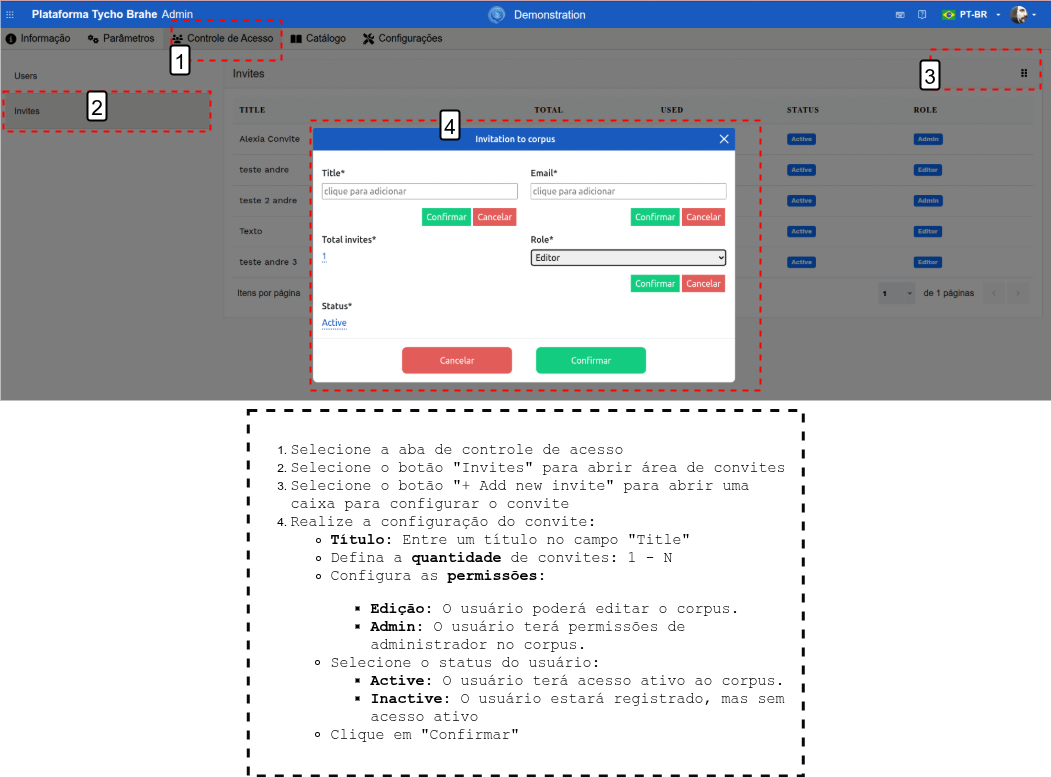
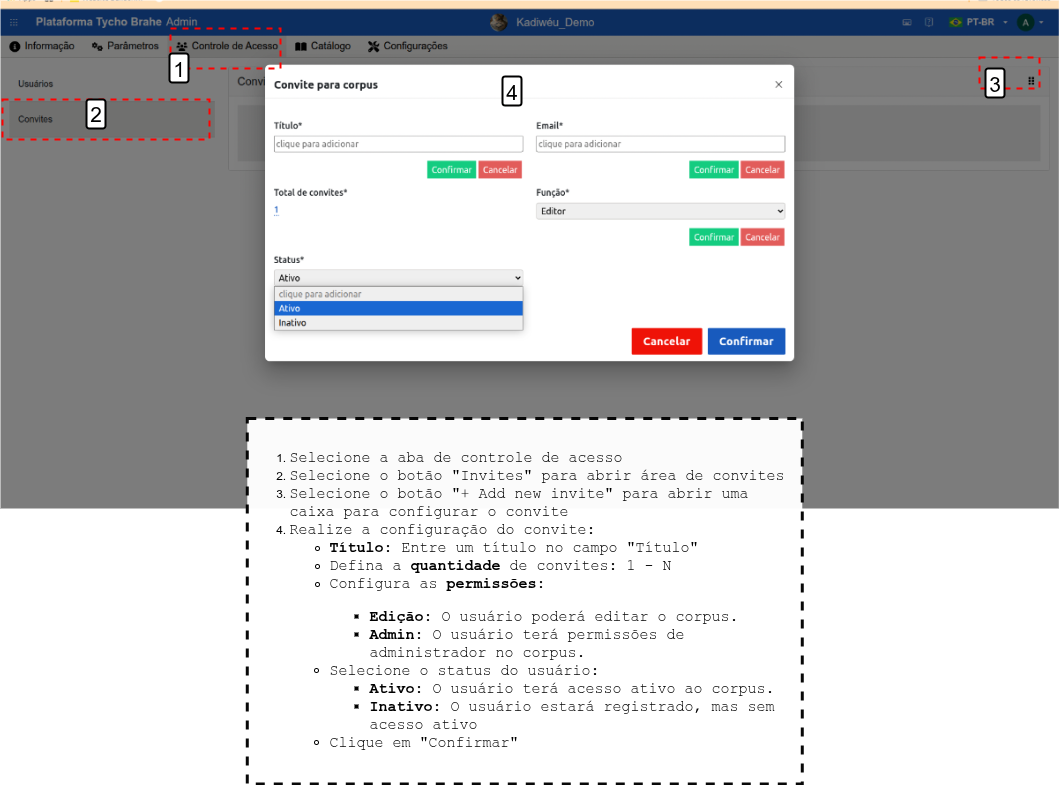
Revisão Admin: Registro novos usuários

diff --git a/admin/pt-br/register-new-users.md b/admin/pt-br/register-new-users.md
@@ -31,8 +31,9 @@ Uma vez na área de Centro Adminstrativo, o admin do corpus consegue seguir com 
 
 ## Selecionando um Corpus
 
-1. Na interface de Administrador, selecione o corpus ao qual o novo usuário será associado. A Figura a seguir apresenta o catálogo de corpora disponíveis para acesso. Ao clicar em um dos corpora, o usuário é redirecionado ao corpus específico, como apresentado na Figura, como apresentado no topo da página “Corpus: Demonstration”.
-    !["Acessanco corpus pelo Administrador"](./images/rnu/select-demo-corpus.png)
+1. Na interface de Administrador, selecione o corpus ao qual o novo usuário será associado. A Figura a seguir apresenta o catálogo de corpora disponíveis para acesso. Ao clicar em um dos corpora, o usuário é redirecionado ao corpus específico, como apresentado na Figura.
+
+!["Acessanco corpus pelo Administrador"](./images/rnu/select-demo-corpus.png)
 
 ## Acessando a aba "Controle de Acesso"
 
@@ -40,7 +41,7 @@ Na primeira tela de administração do corpus, são apresentadas informações g
 
 ![](./images/rnu/tycho-admin-55.png)
 
-Ao acessar o “Controle de Acesso”, a plataforma apresenta uma página com os atuais usuários com permissões no corpus selecionado, como mostra a Figura a seguir. Com botão “Users” selecionado, é apresentado o usuário com os seguintes campos - “Name”, “status”, “Role”.
+Ao acessar o “Controle de Acesso”, a plataforma apresenta uma página com os atuais usuários com permissões no corpus selecionado, como mostra a Figura a seguir. Com botão "Usuários" selecionado, é apresentado o usuário com os seguintes campos - “Nome”, “Status”, “Função”.
 
 !["Área de controle de acesso"](./images/rnu/access-control-accessed.png)
 
@@ -48,17 +49,17 @@ Ao acessar o “Controle de Acesso”, a plataforma apresenta uma página com os
 
 ### Criando Convite de acesso
 
-Na aba "Controle de Acesso", clique no botão "Invites" e depois em “ + Add new invite”. Uma nova janela se abre para que o admin possa realizar as configurações da permissão:
+Na aba "Controle de Acesso", clique no botão "Convites" e depois em “ + Adicionar novo. Uma nova janela se abre para que o admin possa realizar as configurações da permissão:
 
-1. **Inserir título:** Escolha um título para o convite no campo “Title”
+1. **Inserir título:** Escolha um título para o convite no campo "Título"
 2. **Definir Quantidade de Convites**: Escolha se o convite será para um único usuário ou para múltiplos usuários (o contador de convites disponíveis será atualizado conforme os usuários se registrarem).
-3. **Definir o tipo de permissão:** Selecione o tipo de permissão “Role” que o usuário terá:
+3. **Definir o tipo de permissão:** Selecione o tipo de permissão “Função” que o usuário terá:
     - **Edição**: O usuário poderá editar o corpus.
     - **Admin**: O usuário terá permissões de administrador no corpus.
 4. **Email**: Preencha o email do usuário a ser adicionado ao corpus.
 5. **Status do Usuário**: Selecione o status do usuário:
-    - **Active**: O usuário terá acesso ativo ao corpus.
-    - **Inactive**: O usuário estará registrado, mas sem acesso ativo.
+    - **Ativo**: O usuário terá acesso ativo ao corpus.
+    - **Inativo**: O usuário estará registrado, mas sem acesso ativo.
 6. Após configurar as permissões clicar em "Confirmar".
 
 !["Cria a configura convite"](./images/rnu/invites-2.png)
@@ -83,5 +84,9 @@ Se o usuário já estiver cadastrado na plataforma:
 4. **Configurar Permissões e Confirmar**: Selecione as permissões de "Role" (Adminstrator, Editor, Visitor) e "Status" (Active, Inactive).
 
 ![](./images/rnu/register-user-in-base.png)
+
+Após ser associado a um novo corpus, o usuário terá acesso a ele em sua área reservada, como na figura a seguir.
+
+![](./images/rnu/user_corpora.png)
 
 ---
